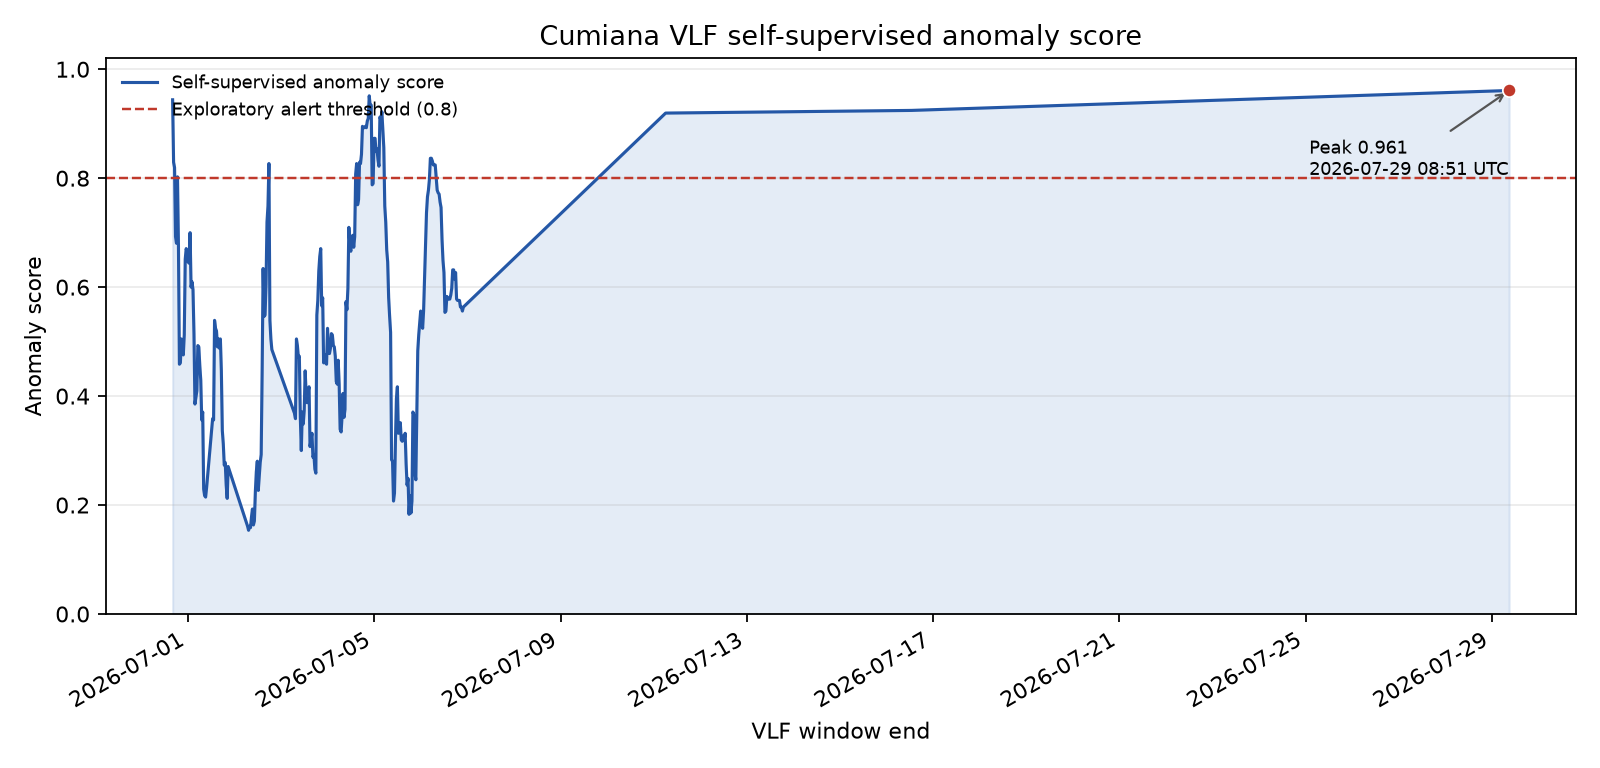
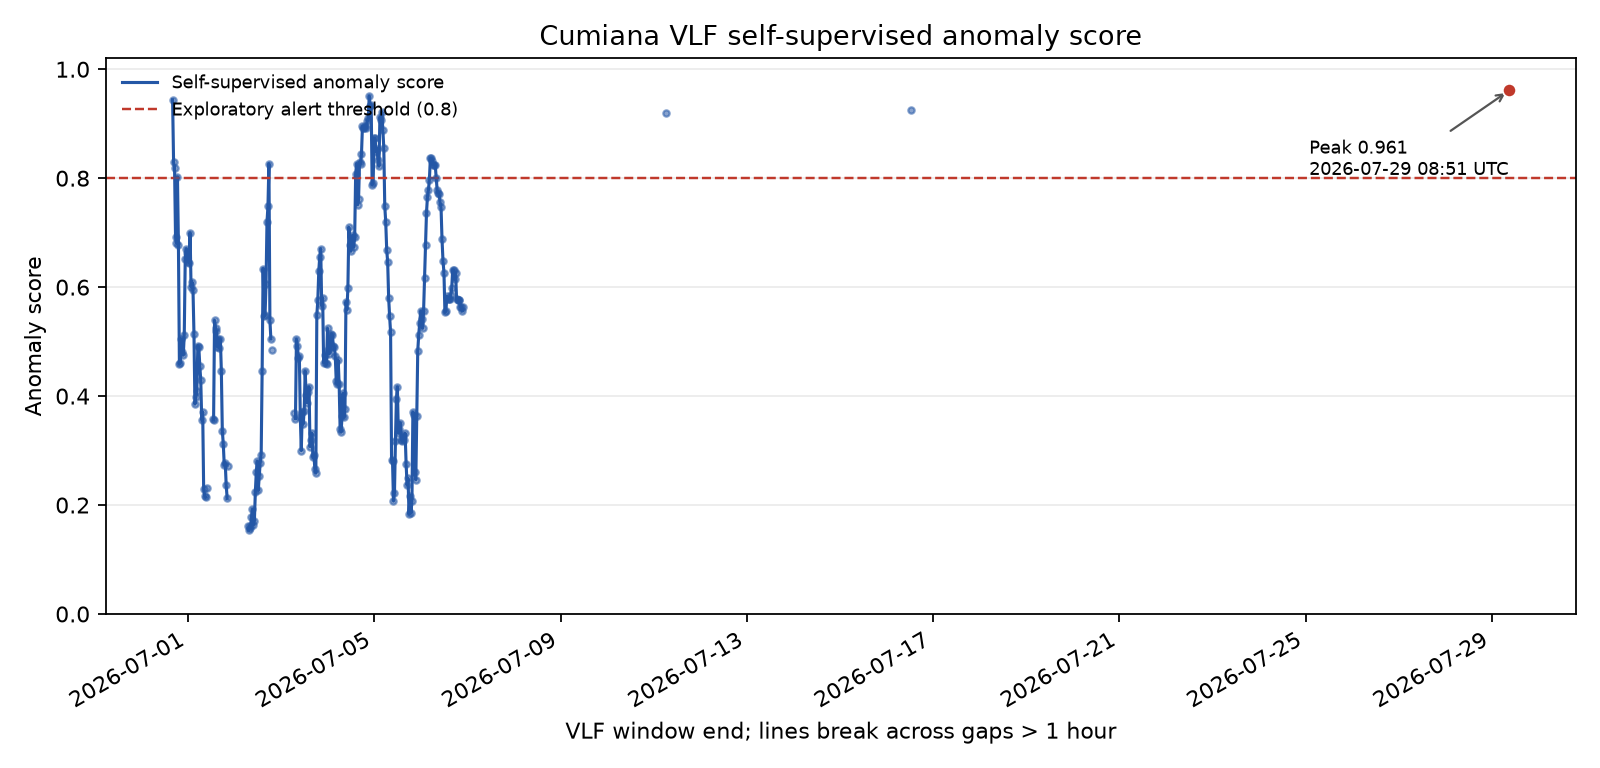
update

diff --git a/docs/report.md b/docs/report.md
@@ -48,6 +48,8 @@ The latest coverage report still combines `4,836` historical normalized INGV eve
 
 ![Cumiana VLF anomaly score](images/anomaly.png)
 
+The chart leaves gaps where no VLF windows were observed; it does not interpolate between the July 6, July 11, July 16, and July 29 captures.
+
 A permutation-controlled association check gives the same conclusion. Using the refreshed 29 June--29 July event file, there are still only three VLF-observed weeks. At M2.5+ there are three event weeks and no controls; at M3+ there are two event weeks and one control. The report returns `insufficient_controls` rather than a p-value. The apparent anomaly differences are not evidence of a precursor. The refreshed diagnostic is `data/derived/reports/italy_vlf_event_association_20260729.json`.
 
 ### Label-scope audit
